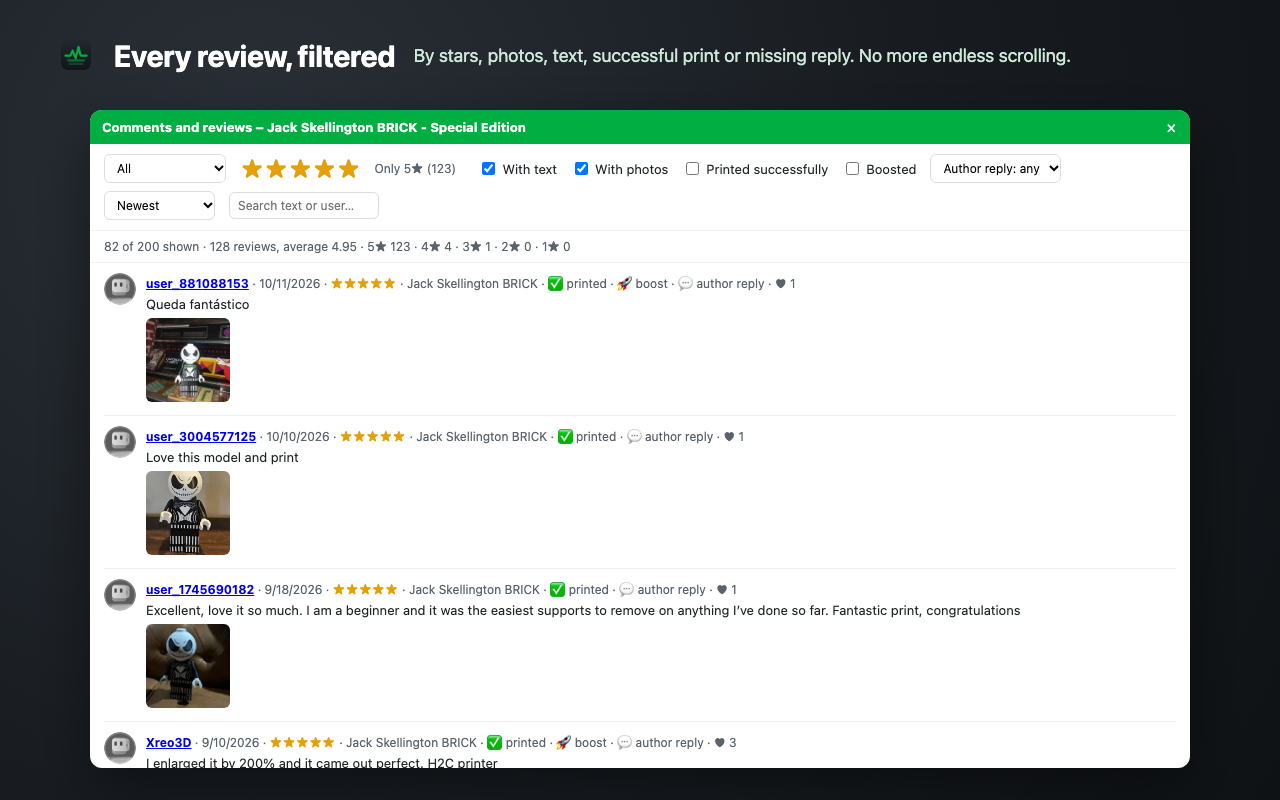
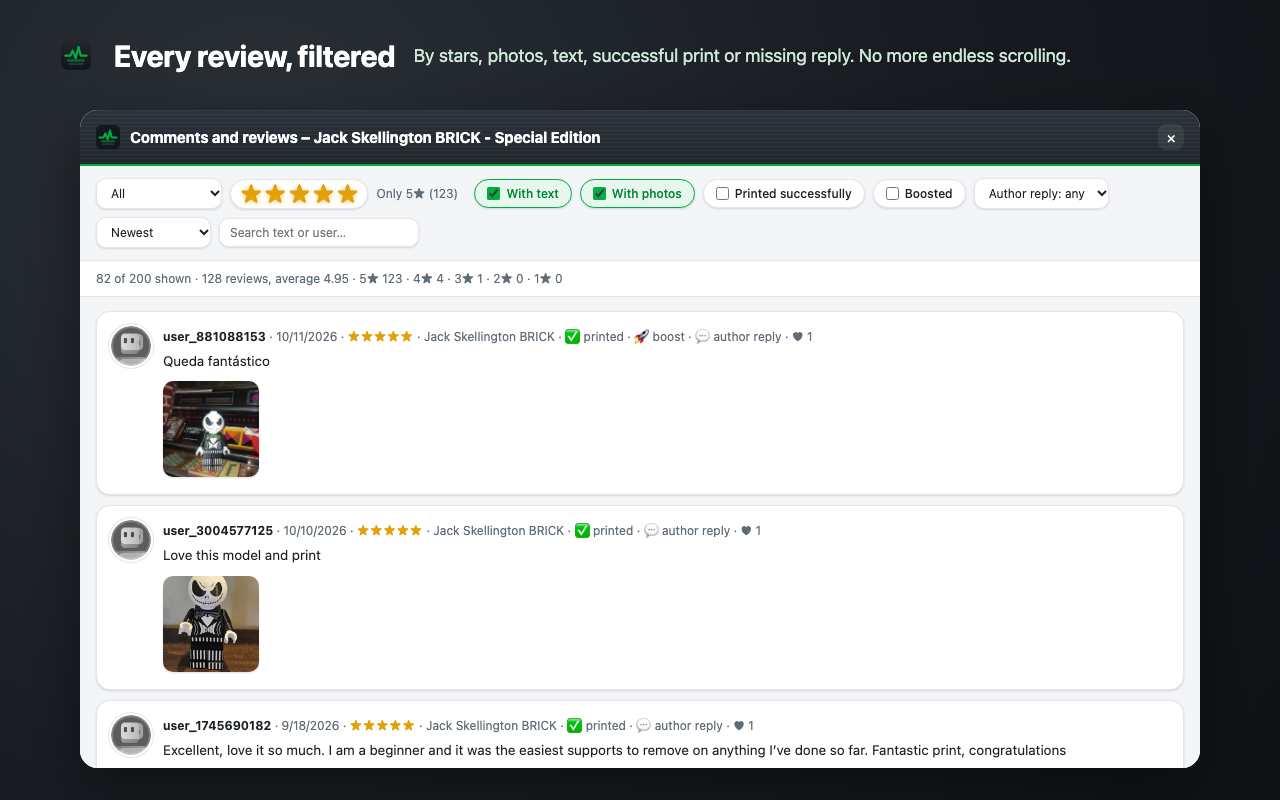
New look: layered panel, spec-sheet stats, pill filters, switches in popup

Changed region(s): [[0.0625, 0.125, 0.9375, 0.9688], [0.6875, 0.9375, 0.8125, 0.9688], [0.625, 0.9375, 0.6562, 0.9688]]

diff --git a/extension/content.js b/extension/content.js
@@ -164,7 +164,7 @@
     </div>`;
 
     const regions = ['EU', 'USA', 'UK', 'CA', 'AU', 'JP', 'ASIA', 'KR'];
-    html += `<h4>Gift card <select class="reg">${regions.map((r) => `<option ${r === region ? 'selected' : ''}>${r}</option>`).join('')}</select></h4>`;
+    html += `<h4 class="gold">Gift card <select class="reg">${regions.map((r) => `<option ${r === region ? 'selected' : ''}>${r}</option>`).join('')}</select></h4>`;
     if (cards.length) {
       let left = total;
       const combo = cards.map((c) => {
@@ -179,7 +179,7 @@
           const n = Math.floor(total / c.price);
           const rest = total - n * c.price;
           return `<div class="row"><span>${money(c.value, c.cur)} · ${fmt(c.price)} pt</span><b>${n}×</b></div>
-          <div class="bar"><i style="width:${((rest / c.price) * 100).toFixed(1)}%"></i></div>
+          <div class="bar gold"><i style="width:${((rest / c.price) * 100).toFixed(1)}%"></i></div>
           <div class="muted">${t(`${fmt(Math.ceil(c.price - rest))} points to the next one`, `mancano ${fmt(Math.ceil(c.price - rest))} punti alla prossima`)}</div>`;
         })
         .join('');
@@ -232,83 +232,113 @@
   host.id = 'makerpulse-host';
   const root = host.attachShadow({ mode: 'open' });
   root.innerHTML = `<style>
-    :host { all: initial; }
+    :host { all: initial;
+      --graphite: #20262c; --graphite-2: #2b333b; --green: #00ae42; --green-deep: #00862f; --green-soft: #e7f7ee; --gold: #c9a24d; --gold-soft: #f7f0de;
+      --surface: #fff; --plate: #f3f5f7; --ink: #1b2127; --slate: #5f6b76; --line: #e3e7eb; --link: #0a6ccf;
+      --shadow-lg: 0 0 0 1px rgba(16,24,40,.06), 0 4px 8px -2px rgba(16,24,40,.08), 0 24px 48px -12px rgba(16,24,40,.32);
+      --shadow-sm: 0 1px 2px rgba(16,24,40,.06), 0 1px 3px rgba(16,24,40,.08);
+      --layers: repeating-linear-gradient(180deg, rgba(255,255,255,.045) 0 1px, transparent 1px 4px); }
+    @media (prefers-color-scheme: dark) {
+      :host { --surface: #1b2026; --plate: #232a31; --ink: #e8edf2; --slate: #9aa6b2; --line: #333c45; --link: #5aa9ff;
+        --green-soft: rgba(0,174,66,.16); --gold-soft: rgba(201,162,77,.16);
+        --shadow-lg: 0 0 0 1px rgba(255,255,255,.06), 0 24px 48px -12px rgba(0,0,0,.7); --shadow-sm: 0 1px 2px rgba(0,0,0,.4); }
+    }
     [hidden] { display: none !important; }
     * { box-sizing: border-box; font-family: -apple-system, BlinkMacSystemFont, "Segoe UI", Roboto, sans-serif; }
-    .panel { position: fixed; right: 16px; bottom: 16px; z-index: 2147483000; width: 380px; max-height: 75vh;
-      display: flex; flex-direction: column; background: #fff; color: #1f2328; border: 1px solid #d8dee4;
-      border-radius: 12px; box-shadow: 0 8px 28px rgba(0,0,0,.18); font-size: 13px; overflow: hidden; }
+    /* pannello */
+    .panel { position: fixed; right: 18px; bottom: 18px; z-index: 2147483000; width: 400px; max-height: 76vh; display: flex; flex-direction: column;
+      background: var(--surface); color: var(--ink); border-radius: 16px; box-shadow: var(--shadow-lg); font-size: 13px; overflow: hidden; }
     .panel.collapsed .body { display: none; }
-    .head { display: flex; align-items: center; gap: 8px; padding: 9px 12px; background: #00ae42; color: #fff; cursor: pointer; user-select: none; }
-    .head b { flex: 1; font-size: 13px; }
-    .head button { background: transparent; border: 0; color: #fff; font-size: 16px; cursor: pointer; padding: 0 2px; line-height: 1; }
-    .body { padding: 10px 12px 12px; overflow: auto; }
-    .grid { display: grid; grid-template-columns: 1fr 1fr; gap: 6px; }
-    .stat { background: #f6f8fa; border-radius: 8px; padding: 6px 8px; }
-    .stat .v { font-size: 15px; font-weight: 700; }
-    .stat .l { font-size: 11px; color: #59636e; }
-    h4 { margin: 12px 0 6px; font-size: 12px; text-transform: uppercase; letter-spacing: .04em; color: #59636e; }
-    table { width: 100%; border-collapse: collapse; font-size: 12px; }
-    th, td { text-align: left; padding: 4px 6px; border-bottom: 1px solid #eef1f4; vertical-align: top; }
-    th { color: #59636e; font-weight: 600; white-space: nowrap; }
-    td.n, th.n { text-align: right; white-space: nowrap; }
-    .btns { display: flex; flex-wrap: wrap; gap: 6px; margin-top: 10px; }
-    .btn { background: #00ae42; color: #fff; border: 0; border-radius: 8px; padding: 7px 10px; font-size: 12px; font-weight: 600; cursor: pointer; }
-    .btn.sec { background: #eef1f4; color: #1f2328; }
-    .muted { color: #59636e; font-size: 12px; }
+    .head { display: flex; align-items: center; gap: 10px; padding: 11px 12px 11px 14px; color: #fff; cursor: pointer; user-select: none;
+      background: var(--layers), linear-gradient(180deg, var(--graphite-2), var(--graphite)); border-bottom: 2px solid var(--green); }
+    .head .logo { width: 24px; height: 24px; flex: none; }
+    .head b { flex: 1; font-size: 14px; font-weight: 700; letter-spacing: -.01em; overflow: hidden; text-overflow: ellipsis; white-space: nowrap; }
+    .head button { width: 26px; height: 26px; border-radius: 8px; background: rgba(255,255,255,.08); border: 0; color: #fff; font-size: 15px; cursor: pointer; line-height: 1; }
+    .head button:hover { background: rgba(255,255,255,.18); }
+    .body { padding: 14px; overflow: auto; }
+    /* scheda tecnica: celle separate da righe sottili, le prime due più grandi */
+    .grid { display: grid; grid-template-columns: 1fr 1fr; gap: 1px; background: var(--line); border: 1px solid var(--line); border-radius: 12px; overflow: hidden; box-shadow: var(--shadow-sm); }
+    .stat { background: var(--surface); padding: 9px 12px; }
+    .stat .v { font-size: 16px; font-weight: 700; letter-spacing: -.01em; font-variant-numeric: tabular-nums; }
+    .stat .l { font-size: 11.5px; color: var(--slate); margin-top: 1px; }
+    .grid .stat:nth-child(-n+2) { background: var(--plate); padding: 12px; }
+    .grid .stat:nth-child(-n+2) .v { font-size: 24px; letter-spacing: -.02em; }
+    h4 { display: flex; align-items: center; gap: 8px; margin: 18px 0 8px; font-size: 13px; font-weight: 650; color: var(--ink); }
+    h4::before { content: ""; width: 4px; height: 14px; border-radius: 2px; background: var(--green); }
+    h4.gold::before { background: var(--gold); }
+    h4 select { margin-left: auto; font-size: 12px; font-weight: 500; }
+    select, input[type=search] { font-size: 12px; color: var(--ink); background: var(--surface); border: 1px solid var(--line); border-radius: 10px; padding: 6px 10px; box-shadow: var(--shadow-sm); }
+    select:focus, input:focus { outline: 2px solid var(--green); outline-offset: 1px; }
+    table { width: 100%; border-collapse: separate; border-spacing: 0; font-size: 12px; border: 1px solid var(--line); border-radius: 12px; overflow: hidden; box-shadow: var(--shadow-sm); }
+    th, td { text-align: left; padding: 7px 9px; border-bottom: 1px solid var(--line); vertical-align: middle; }
+    tbody tr:last-child td { border-bottom: 0; }
+    th { background: var(--plate); color: var(--slate); font-weight: 600; white-space: nowrap; }
+    td.n, th.n { text-align: right; white-space: nowrap; font-variant-numeric: tabular-nums; }
+    tbody tr:hover td { background: var(--green-soft); }
+    .btns { display: flex; flex-wrap: wrap; gap: 8px; margin-top: 14px; }
+    .btn { background: var(--green); color: #fff; border: 0; border-radius: 10px; padding: 9px 14px; font-size: 13px; font-weight: 650; cursor: pointer;
+      box-shadow: 0 2px 0 var(--green-deep), 0 6px 14px -4px rgba(0,174,66,.45); transition: transform .08s, box-shadow .08s; }
+    .btn:hover { transform: translateY(-1px); }
+    .btn:active { transform: translateY(1px); box-shadow: 0 1px 0 var(--green-deep); }
+    .btn.sec { background: var(--surface); color: var(--ink); border: 1px solid var(--line); box-shadow: var(--shadow-sm); }
+    .muted { color: var(--slate); font-size: 12px; }
     .err { color: #cf222e; font-size: 12px; }
-    .row { display: flex; justify-content: space-between; gap: 8px; margin-top: 8px; }
-    .bar { height: 6px; background: #eef1f4; border-radius: 3px; overflow: hidden; margin: 4px 0 2px; }
-    .bar i { display: block; height: 100%; background: #00ae42; }
-    h4 select { font-size: 11px; margin-left: 6px; text-transform: none; }
-    .body a { color: #0969da; text-decoration: none; }
-    .tag { display: inline-block; background: #dafbe1; color: #116329; border-radius: 6px; padding: 1px 6px; font-size: 11px; margin: 0 4px 4px 0; }
+    .row { display: flex; justify-content: space-between; align-items: baseline; gap: 8px; margin-top: 10px; font-variant-numeric: tabular-nums; }
+    .row b { font-size: 14px; }
+    /* barre come filamento estruso */
+    .bar { height: 10px; border-radius: 6px; overflow: hidden; margin: 5px 0 3px; background: var(--plate);
+      box-shadow: inset 0 1px 2px rgba(16,24,40,.12); }
+    .bar i { display: block; height: 100%; border-radius: 6px; background: var(--layers), linear-gradient(90deg, var(--green-deep), var(--green) 70%, #3fcf78); }
+    .bar.gold i { background: var(--layers), linear-gradient(90deg, #a8822f, var(--gold) 70%, #e2c27a); }
+    .body a { color: var(--link); text-decoration: none; font-weight: 500; }
+    .body a:hover { text-decoration: underline; }
+    .tag { display: inline-block; background: var(--green-soft); color: var(--green-deep); border: 1px solid rgba(0,174,66,.25); border-radius: 999px; padding: 2px 9px; font-size: 11px; font-weight: 600; margin: 0 4px 8px 0; }
     /* modale */
-    .ovl { position: fixed; inset: 0; z-index: 2147483001; background: rgba(0,0,0,.45); display: flex; align-items: center; justify-content: center; padding: 16px; }
-    .modal { background: #fff; color: #1f2328; border-radius: 12px; width: min(1100px, 100%); max-height: 90vh; display: flex; flex-direction: column; overflow: hidden; font-size: 13px; }
-    .modal .head { cursor: default; }
-    .toolbar { display: flex; flex-wrap: wrap; gap: 8px 14px; align-items: center; padding: 10px 14px; border-bottom: 1px solid #eef1f4; }
-    .toolbar label { display: inline-flex; align-items: center; gap: 4px; cursor: pointer; }
-    .toolbar input[type=search], .toolbar select { border: 1px solid #d8dee4; border-radius: 6px; padding: 5px 8px; font-size: 12px; }
-    .mbody { overflow: auto; padding: 0 14px 14px; }
-    .item { border-bottom: 1px solid #eef1f4; padding: 10px 0; display: flex; gap: 10px; }
-    .item img.av { width: 32px; height: 32px; border-radius: 50%; flex: none; }
-    .item .meta { color: #59636e; font-size: 12px; margin-bottom: 3px; }
-    .item .txt { white-space: pre-wrap; word-break: break-word; }
-    .item .pics { display: flex; gap: 6px; margin-top: 6px; flex-wrap: wrap; }
-    .item .pics img { width: 84px; height: 84px; object-fit: cover; border-radius: 6px; }
+    .ovl { position: fixed; inset: 0; z-index: 2147483001; background: rgba(15,20,25,.5); backdrop-filter: blur(4px); display: flex; align-items: center; justify-content: center; padding: 24px; }
+    .modal { background: var(--surface); color: var(--ink); border-radius: 18px; width: min(1120px, 100%); max-height: 90vh; display: flex; flex-direction: column; overflow: hidden; font-size: 13px; box-shadow: var(--shadow-lg); }
+    .modal .head { cursor: default; padding: 14px 16px; }
+    .modal .head b { font-size: 15px; }
+    .toolbar { display: flex; flex-wrap: wrap; gap: 8px; align-items: center; padding: 12px 16px; background: var(--plate); border-bottom: 1px solid var(--line); }
+    .toolbar label { display: inline-flex; align-items: center; gap: 6px; cursor: pointer; padding: 6px 12px; border-radius: 999px; background: var(--surface); border: 1px solid var(--line); box-shadow: var(--shadow-sm); font-size: 12px; font-weight: 500; }
+    .toolbar label:has(input:checked) { background: var(--green-soft); border-color: var(--green); color: var(--green-deep); }
+    .toolbar input[type=checkbox] { accent-color: var(--green); margin: 0; }
+    .toolbar input[type=search] { min-width: 200px; }
+    .mbody { overflow: auto; padding: 4px 16px 16px; background: var(--plate); }
+    .item { display: flex; gap: 12px; padding: 14px; margin-top: 10px; background: var(--surface); border: 1px solid var(--line); border-radius: 14px; box-shadow: var(--shadow-sm); }
+    .item img.av { width: 40px; height: 40px; border-radius: 50%; flex: none; box-shadow: 0 0 0 2px var(--surface), 0 0 0 3px var(--line); }
+    .item .meta { color: var(--slate); font-size: 12px; margin-bottom: 5px; }
+    .item .meta a { color: var(--ink); text-decoration: none; }
+    .item .txt { white-space: pre-wrap; word-break: break-word; font-size: 13.5px; line-height: 1.5; }
+    .item .pics { display: flex; gap: 8px; margin-top: 10px; flex-wrap: wrap; }
+    .item .pics img { width: 96px; height: 96px; object-fit: cover; border-radius: 10px; box-shadow: var(--shadow-sm); transition: transform .12s; }
+    .item .pics a:hover img { transform: scale(1.04); }
     .stars { color: #e3a008; letter-spacing: 1px; }
     /* stelle in ordine inverso nel DOM: così "~" accende anche quelle a sinistra */
-    .starpick { display: inline-flex; flex-direction: row-reverse; align-items: center; }
+    .starpick { display: inline-flex; flex-direction: row-reverse; align-items: center; padding: 3px 8px; border-radius: 999px; background: var(--surface); border: 1px solid var(--line); box-shadow: var(--shadow-sm); }
     .starpick button { background: none; border: 0; padding: 0 1px; font-size: 22px; line-height: 1; color: #d0d7de; cursor: pointer; transition: transform .1s; }
-    .starpick button.on { color: #e3a008; }
-    .starpick:hover button { color: #d0d7de; }
-    .starpick button:hover, .starpick button:hover ~ button { color: #f5b301; }
-    .starpick button:hover { transform: scale(1.15); }
-    .starlbl { font-size: 12px; color: #59636e; min-width: 90px; }
-    .sum { padding: 8px 14px; color: #59636e; font-size: 12px; border-bottom: 1px solid #eef1f4; }
-    .models th { position: sticky; top: 0; background: #fff; cursor: pointer; padding-top: 10px; }
-    .models img { width: 44px; height: 44px; object-fit: cover; border-radius: 6px; }
-    .models a { color: #0969da; text-decoration: none; }
-    .models tfoot td { font-weight: 700; border-top: 2px solid #d8dee4; }
-    .qr { position: fixed; z-index: 2147483002; display: flex; flex-wrap: wrap; gap: 4px; padding: 6px; background: #fff;
-      border: 1px solid #d8dee4; border-radius: 10px; box-shadow: 0 6px 20px rgba(0,0,0,.15); font-size: 12px; }
-    .qr button { border: 1px solid #d8dee4; background: #f6f8fa; color: #1f2328; border-radius: 999px; padding: 4px 10px; font-size: 12px; cursor: pointer; white-space: nowrap; }
-    .qr button:hover { border-color: #00ae42; }
-    .qr button.save { background: #00ae42; border-color: #00ae42; color: #fff; font-weight: 700; }
-    @media (prefers-color-scheme: dark) {
-      .qr, .qr button { background: #22272e; color: #e6edf3; border-color: #444c56; }
-      .panel, .modal, .models th { background: #1c2128; color: #e6edf3; border-color: #30363d; }
-      .stat, .btn.sec, .bar { background: #2d333b; color: #e6edf3; }
-      th, td, .item, .toolbar, .sum { border-color: #30363d; }
-      .muted, .stat .l, h4, th, .item .meta, .sum, .starlbl { color: #9198a1; }
-      .starpick button, .starpick:hover button { color: #444c56; }
-      .toolbar input[type=search], .toolbar select { background: #22272e; color: #e6edf3; border-color: #444c56; }
-      .models a, .body a { color: #4493f8; }
-    }
+    .starpick button.on { color: #e3a008; text-shadow: 0 1px 4px rgba(227,160,8,.45); }
+    .starpick:hover button { color: #d0d7de; text-shadow: none; }
+    .starpick button:hover, .starpick button:hover ~ button { color: #f5b301; text-shadow: 0 1px 4px rgba(245,179,1,.45); }
+    .starpick button:hover { transform: scale(1.18); }
+    .starlbl { font-size: 12px; color: var(--slate); min-width: 90px; }
+    .sum { padding: 10px 16px; color: var(--slate); font-size: 12px; border-bottom: 1px solid var(--line); background: var(--surface); display: flex; align-items: center; gap: 10px; flex-wrap: wrap; }
+    .models { box-shadow: var(--shadow-sm); margin-top: 12px; }
+    .models th { position: sticky; top: 0; z-index: 1; cursor: pointer; padding-top: 10px; }
+    .models th:hover { color: var(--ink); }
+    .models td { background: var(--surface); }
+    .models img { width: 46px; height: 46px; object-fit: cover; border-radius: 10px; box-shadow: var(--shadow-sm); }
+    .models a { color: var(--ink); text-decoration: none; font-weight: 600; }
+    .models a:hover { color: var(--green-deep); }
+    .models tfoot td { font-weight: 700; background: var(--plate); border-top: 2px solid var(--line); }
+    /* risposte rapide */
+    .qr { position: fixed; z-index: 2147483002; display: flex; flex-wrap: wrap; gap: 6px; padding: 8px; background: var(--surface);
+      border-radius: 14px; box-shadow: var(--shadow-lg); font-size: 12px; border-top: 3px solid var(--green); }
+    .qr button { border: 1px solid var(--line); background: var(--plate); color: var(--ink); border-radius: 999px; padding: 6px 12px; font-size: 12px; font-weight: 500; cursor: pointer; white-space: nowrap; transition: transform .08s; }
+    .qr button:hover { border-color: var(--green); background: var(--green-soft); transform: translateY(-1px); }
+    .qr button.save { background: var(--green); border-color: var(--green); color: #fff; font-weight: 700; box-shadow: 0 2px 0 var(--green-deep); }
   </style>
   <div class="panel" hidden>
-    <div class="head"><b>MakerPulse</b><button class="tog" title="${t('Collapse/expand', 'Comprimi/espandi')}">▾</button><button class="x" title="${t('Close', 'Chiudi')}">×</button></div>
+    <div class="head"><svg class="logo" viewBox="0 0 96 96" aria-hidden="true"><rect width="96" height="96" rx="22" fill="#14181c"/><rect x="20" y="62" width="56" height="7" rx="3.5" fill="#00AE42" opacity=".55"/><rect x="24" y="73" width="48" height="7" rx="3.5" fill="#00AE42" opacity=".3"/><polyline points="14,50 30,50 37,34 47,58 56,22 63,50 82,50" fill="none" stroke="#00AE42" stroke-width="8" stroke-linecap="round" stroke-linejoin="round"/></svg><b>MakerPulse</b><button class="tog" title="${t('Collapse/expand', 'Comprimi/espandi')}">▾</button><button class="x" title="${t('Close', 'Chiudi')}">×</button></div>
     <div class="body"></div>
   </div>
   <div class="ovl" hidden><div class="modal"></div></div>
@@ -333,7 +363,7 @@
   document.addEventListener('keydown', (e) => e.key === 'Escape' && !ovl.hidden && closeModal());
 
   function openModal(title, html) {
-    modal.innerHTML = `<div class="head"><b>${esc(title)}</b><button class="mx" title="${t('Close', 'Chiudi')}">×</button></div>${html}`;
+    modal.innerHTML = `<div class="head">${root.querySelector('.head .logo').outerHTML}<b>${esc(title)}</b><button class="mx" title="${t('Close', 'Chiudi')}">×</button></div>${html}`;
     modal.querySelector('.mx').onclick = closeModal;
     ovl.hidden = false;
   }

diff --git a/extension/popup.html b/extension/popup.html
@@ -5,45 +5,67 @@
 <meta name="viewport" content="width=device-width, initial-scale=1">
 <title>MakerPulse</title>
 <style>
-  :root { --fg: #1f2328; --muted: #59636e; --bg: #fff; --card: #f6f8fa; --line: #d8dee4; --green: #00ae42; }
-  @media (prefers-color-scheme: dark) { :root { --fg: #e6edf3; --muted: #9198a1; --bg: #1c2128; --card: #22272e; --line: #444c56; } }
+  :root { --graphite: #20262c; --graphite-2: #2b333b; --green: #00ae42; --green-deep: #00862f; --green-soft: #e7f7ee;
+    --fg: #1b2127; --muted: #5f6b76; --bg: #fff; --plate: #f3f5f7; --line: #e3e7eb;
+    --shadow-sm: 0 1px 2px rgba(16,24,40,.06), 0 1px 3px rgba(16,24,40,.08);
+    --shadow-md: 0 0 0 1px rgba(16,24,40,.05), 0 10px 24px -8px rgba(16,24,40,.22);
+    --layers: repeating-linear-gradient(180deg, rgba(255,255,255,.045) 0 1px, transparent 1px 4px); }
+  @media (prefers-color-scheme: dark) { :root { --fg: #e8edf2; --muted: #9aa6b2; --bg: #1b2026; --plate: #232a31; --line: #333c45; --green-soft: rgba(0,174,66,.16);
+    --shadow-sm: 0 1px 2px rgba(0,0,0,.4); --shadow-md: 0 0 0 1px rgba(255,255,255,.06), 0 10px 24px -8px rgba(0,0,0,.6); } }
   * { box-sizing: border-box; }
-  body { margin: 0; width: 320px; font: 13px/1.45 -apple-system, BlinkMacSystemFont, "Segoe UI", Roboto, sans-serif; color: var(--fg); background: var(--bg); }
-  body.welcome { width: auto; max-width: 460px; margin: 40px auto; padding: 0 16px; font-size: 14px; }
-  .about { text-align: center; padding: 18px 18px 6px; }
-  .logo { width: 56px; height: 56px; }
-  h1 { font-size: 20px; margin: 4px 0 10px; }
-  .about p { margin: 0 0 8px; color: var(--muted); }
-  hr { border: 0; border-top: 1px solid var(--line); margin: 12px 0; }
-  .avatar { width: 84px; height: 84px; border-radius: 50%; object-fit: cover; border: 3px solid var(--green); }
-  .ask { color: var(--green); font-weight: 700; margin: 10px 0 12px; }
-  .boost { display: inline-flex; align-items: center; gap: 10px; padding: 9px 26px; border-radius: 12px; background: var(--green); color: #fff;
-    font-size: 17px; font-weight: 700; text-decoration: none; box-shadow: 0 4px 14px rgba(0, 174, 66, .35); transition: transform .1s; }
-  .boost:hover { transform: translateY(-1px); }
-  .small { font-size: 11px; color: var(--muted); margin: 8px 0 0; }
-  .social { display: flex; justify-content: center; gap: 14px; margin: 14px 0 6px; }
-  .social a { display: inline-flex; width: 34px; height: 34px; align-items: center; justify-content: center; border-radius: 50%; background: var(--card); color: var(--fg); border: 1px solid var(--line); }
-  .social a:hover { border-color: var(--green); color: var(--green); }
-  .social svg { width: 18px; height: 18px; fill: currentColor; }
-  .social a.mw { background: #fff; }
-  .social a.mw img { width: 22px; height: 22px; }
-  details { border-top: 1px solid var(--line); padding: 0 16px 12px; }
-  summary { cursor: pointer; font-weight: 700; padding: 10px 0 6px; }
-  label { display: flex; align-items: center; gap: 8px; padding: 5px 0; cursor: pointer; }
-  h3 { font-size: 12px; margin: 10px 0 0; }
-  textarea { width: 100%; min-height: 110px; margin-top: 4px; font: 12px -apple-system, BlinkMacSystemFont, "Segoe UI", Roboto, sans-serif; color: var(--fg); background: var(--bg);
-    border: 1px solid var(--line); border-radius: 6px; padding: 6px; resize: vertical; }
-  details p { margin: 8px 0 0; color: var(--muted); font-size: 12px; }
-  .start { display: none; background: var(--card); border: 1px solid var(--line); border-radius: 10px; padding: 12px; margin: 10px 0 4px; color: var(--fg); }
+  body { margin: 0; width: 340px; font: 13px/1.5 -apple-system, BlinkMacSystemFont, "Segoe UI", Roboto, sans-serif; color: var(--fg); background: var(--plate); }
+  html:has(body.welcome) { background: #e9edf0; }
+  body.welcome { width: min(480px, calc(100% - 32px)); margin: 40px auto; padding: 0 0 4px; font-size: 14px; border-radius: 18px; overflow: hidden; box-shadow: var(--shadow-md); }
+  .band { display: flex; align-items: center; gap: 12px; padding: 16px 18px 40px; color: #fff;
+    background: var(--layers), linear-gradient(180deg, var(--graphite-2), var(--graphite)); border-bottom: 3px solid var(--green); }
+  .band img { width: 44px; height: 44px; filter: drop-shadow(0 4px 10px rgba(0,0,0,.4)); }
+  .band h1 { font-size: 19px; margin: 0; letter-spacing: -.01em; }
+  .band span { display: block; font-size: 12px; color: #b9c4cd; }
+  .card { margin: -26px 12px 0; padding: 16px; background: var(--bg); border-radius: 16px; box-shadow: var(--shadow-md); text-align: center; position: relative; }
+  .card p { margin: 0 0 8px; color: var(--muted); }
+  .start { display: none; text-align: left; background: var(--green-soft); border: 1px solid rgba(0,174,66,.3); border-radius: 12px; padding: 10px 12px; margin: 4px 0 8px; color: var(--fg); }
   .welcome .start { display: block; }
-  .start a { color: var(--green); font-weight: 700; }
-  .version { text-align: center; font-size: 11px; color: var(--muted); padding: 6px 0 12px; }
+  .start a { color: var(--green-deep); font-weight: 700; }
+  hr { border: 0; border-top: 1px solid var(--line); margin: 14px 0; }
+  .avatar { width: 88px; height: 88px; border-radius: 50%; object-fit: cover; box-shadow: 0 0 0 3px var(--bg), 0 0 0 6px var(--green), 0 8px 20px -6px rgba(0,0,0,.35); }
+  .ask { font-weight: 700; font-size: 14px; margin: 14px 0 12px; color: var(--fg); }
+  .boost { display: inline-flex; align-items: center; gap: 10px; padding: 11px 30px; border-radius: 12px; background: var(--green); color: #fff;
+    font-size: 17px; font-weight: 750; text-decoration: none; box-shadow: 0 3px 0 var(--green-deep), 0 10px 22px -6px rgba(0,174,66,.55); transition: transform .08s, box-shadow .08s; }
+  .boost:hover { transform: translateY(-1px); }
+  .boost:active { transform: translateY(2px); box-shadow: 0 1px 0 var(--green-deep); }
+  .small { font-size: 11px; color: var(--muted); margin: 10px 0 0; }
+  .social { display: flex; justify-content: center; gap: 12px; margin: 14px 0 2px; }
+  .social a { display: inline-flex; width: 40px; height: 40px; align-items: center; justify-content: center; border-radius: 12px; background: var(--bg); color: var(--fg);
+    border: 1px solid var(--line); box-shadow: var(--shadow-sm); transition: transform .08s, border-color .08s; }
+  .social a:hover { border-color: var(--green); transform: translateY(-1px); }
+  .social a:focus-visible, .boost:focus-visible, summary:focus-visible { outline: 2px solid var(--green); outline-offset: 2px; }
+  .social svg { width: 20px; height: 20px; fill: currentColor; }
+  .social a.mw { background: #fff; }
+  .social a.mw img { width: 24px; height: 24px; }
+  details { margin: 12px; background: var(--bg); border-radius: 16px; box-shadow: var(--shadow-md); padding: 0 16px; }
+  summary { cursor: pointer; font-weight: 700; padding: 13px 0; list-style: none; display: flex; justify-content: space-between; }
+  summary::after { content: "⌄"; color: var(--muted); }
+  details[open] summary::after { content: "⌃"; }
+  details[open] { padding-bottom: 14px; }
+  /* interruttori */
+  label { display: flex; align-items: center; justify-content: space-between; gap: 12px; padding: 8px 0; cursor: pointer; border-top: 1px solid var(--line); }
+  label input { appearance: none; flex: none; width: 36px; height: 20px; border-radius: 999px; background: var(--line); position: relative; cursor: pointer; transition: background .15s; margin: 0; order: 2; }
+  label input::after { content: ""; position: absolute; top: 2px; left: 2px; width: 16px; height: 16px; border-radius: 50%; background: #fff; box-shadow: 0 1px 3px rgba(0,0,0,.3); transition: transform .15s; }
+  label input:checked { background: var(--green); }
+  label input:checked::after { transform: translateX(16px); }
+  label input:focus-visible { outline: 2px solid var(--green); outline-offset: 2px; }
+  h3 { font-size: 13px; margin: 14px 0 0; }
+  textarea { width: 100%; min-height: 120px; margin-top: 6px; font: 12.5px/1.5 -apple-system, BlinkMacSystemFont, "Segoe UI", Roboto, sans-serif; color: var(--fg); background: var(--plate);
+    border: 1px solid var(--line); border-radius: 12px; padding: 8px 10px; resize: vertical; box-shadow: inset 0 1px 2px rgba(16,24,40,.06); }
+  textarea:focus { outline: 2px solid var(--green); outline-offset: 1px; }
+  details p { margin: 8px 0 0; color: var(--muted); font-size: 12px; }
+  .version { text-align: center; font-size: 11px; color: var(--muted); padding: 2px 0 12px; }
+  @media (prefers-reduced-motion: reduce) { * { transition: none !important; } }
 </style>
 </head>
 <body>
-<section class="about">
-  <img class="logo" src="icons/128.png" alt="">
-  <h1>MakerPulse</h1>
+<header class="band"><img src="icons/128.png" alt=""><div><h1>MakerPulse</h1><span data-t="tagline"></span></div></header>
+<section class="card">
   <p data-t="thanks"></p>
   <p data-t="local"></p>
   <div class="start"><span data-t="start"></span> <a href="https://makerworld.com/en/@Emanuele_tech" target="_blank" rel="noopener" data-t="startLink"></a></div>

diff --git a/extension/popup.js b/extension/popup.js
@@ -1,6 +1,7 @@
 const DEFAULTS = { modelPanel: true, profilePanel: true, pointsPanel: true, quickReplies: true, collapsed: false };
 const IT = (navigator.language || '').toLowerCase().startsWith('it');
 const TEXT = {
+  tagline: ['Stats & tools for MakerWorld creators', 'Statistiche e strumenti per i creator di MakerWorld'],
   thanks: ['Thanks for using MakerPulse! A side project made by a MakerWorld creator, for creators.', 'Grazie per usare MakerPulse! Un progetto nato da un creator di MakerWorld, per i creator.'],
   local: [
     'Not affiliated with Bambu Lab. It runs locally in your browser and sends no data anywhere. Found a bug? Let me know on GitHub.',
